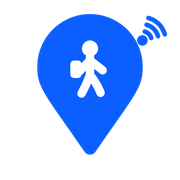
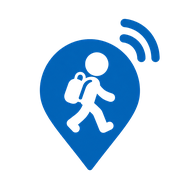
we

diff --git a/public/home.html b/public/home.html
@@ -16,10 +16,12 @@
 
 <style>
   :root {
-    /* Brand color sampled directly from the actual logo artwork
-       (public/assets/logo-mark.png, solid pixel color #098277) — the site
-       previously ran on a generic blue unrelated to the logo's own color. */
-    --teal: #098277; --teal-dark: #076B62; --sky: #E1F3F0; --green: #32C36C;
+    /* Brand color sampled directly from the real logo file (LOGO.png,
+       solid pixel color #0062B7) — matches the exact blue used in the
+       Parent Portal and every favicon/logo asset across the site. This
+       replaced an interim teal that was itself sampled from an earlier,
+       differently-colored export of the logo. */
+    --signal: #0062B7; --signal-deep: #004E92; --sky: #E5EFFA; --green: #32C36C;
     --white: #FFFFFF; --bg-light: #F7F9FC; --ink: #1E293B; --muted: #64748B;
     --line: #E4E9F0; --radius: 16px;
     /* Primary accent — gold, not blue. Blue-on-blue over the scroll-story's
@@ -58,11 +60,11 @@
   .btn-primary:hover { background: var(--accent-hover); }
   .btn-primary:disabled { opacity: 0.6; cursor: default; }
   .btn-ghost { background: transparent; color: var(--ink); border: 1.5px solid var(--line); }
-  .btn-ghost:hover { border-color: var(--teal); color: var(--teal); }
+  .btn-ghost:hover { border-color: var(--signal); color: var(--signal); }
   .btn-sm { padding: 8px 14px; font-size: 13px; }
   .lang-bar { display: flex; gap: 6px; }
   .lang-btn { padding: 5px 13px; border-radius: 20px; border: 1px solid var(--line); background: #fff; color: var(--muted); font-size: 12.5px; font-weight: 700; cursor: pointer; }
-  .lang-btn.active { background: var(--sky); color: var(--teal); border-color: var(--sky); }
+  .lang-btn.active { background: var(--sky); color: var(--signal); border-color: var(--sky); }
 
   /* ---------- STATIC SALES HERO ---------- */
   /* Replaces the old 9-photo scroll-hijack hero: a real salesperson leads
@@ -113,10 +115,10 @@
   .reveal-row { display: flex; justify-content: space-between; padding: 9px 0; border-top: 1px solid var(--line); font-size: 13px; }
   .reveal-row span:first-child { color: var(--muted); }
   .reveal-row span:last-child { font-weight: 600; }
-  .reveal-call { margin-top: 16px; background: var(--teal); color: #fff; text-align: center; padding: 12px; border-radius: 10px; font-size: 14px; font-weight: 700; }
+  .reveal-call { margin-top: 16px; background: var(--signal); color: #fff; text-align: center; padding: 12px; border-radius: 10px; font-size: 14px; font-weight: 700; }
   .reveal-close { display: block; text-align: center; margin-top: 14px; font-size: 12px; color: var(--muted); cursor: pointer; }
 
-  .eyebrow-sm { color: var(--teal); font-size: 13px; font-weight: 700; letter-spacing: 0.08em; text-transform: uppercase; text-align: center; margin-bottom: 12px; }
+  .eyebrow-sm { color: var(--signal); font-size: 13px; font-weight: 700; letter-spacing: 0.08em; text-transform: uppercase; text-align: center; margin-bottom: 12px; }
   .section-title { font-size: clamp(26px, 3.6vw, 38px); text-align: center; color: var(--ink); max-width: 680px; margin: 0 auto 16px; line-height: 1.2; }
   .section-sub { text-align: center; color: var(--muted); font-size: 16px; max-width: 560px; margin: 0 auto 56px; font-weight: 400; }
   .bg-light { background: var(--bg-light); }
@@ -154,7 +156,7 @@
   .gps-result .small { font-size: 12.5px; color: var(--muted); margin-top: 2px; }
   .gps-timer { font-family: 'Inter', monospace; font-size: 15px; font-weight: 700; color: var(--muted); margin-bottom: 14px; min-height: 20px; }
   .gps-footer-note { margin-top: 20px; font-size: 13.5px; color: var(--muted); max-width: 460px; margin-left: auto; margin-right: auto; }
-  .gps-real-photo { max-width: 280px; margin: 32px auto 0; border-radius: 18px; overflow: hidden; box-shadow: 0 24px 50px -20px rgba(9,130,119,0.3); }
+  .gps-real-photo { max-width: 280px; margin: 32px auto 0; border-radius: 18px; overflow: hidden; box-shadow: 0 24px 50px -20px rgba(0,98,183,0.3); }
   .gps-real-photo img { width: 100%; display: block; }
   .gps-real-caption { margin-top: 10px; font-size: 12.5px; color: var(--muted); }
 
@@ -171,8 +173,8 @@
      photo. Percentages are tuned to that specific image's crop — if the
      photo is ever swapped, these need re-tuning by eye against the new one. */
   .signal-pulse { position: absolute; top: 52%; left: 54%; width: 20px; height: 20px; }
-  .signal-dot { position: absolute; inset: 0; margin: auto; width: 14px; height: 14px; border-radius: 50%; background: var(--teal); border: 3px solid #fff; box-shadow: 0 2px 10px rgba(0,0,0,0.35); z-index: 2; }
-  .signal-ring { position: absolute; inset: -10px; border: 2px solid var(--teal); border-radius: 50%; opacity: 0; animation: signalPulseOut 1.8s ease-out infinite; }
+  .signal-dot { position: absolute; inset: 0; margin: auto; width: 14px; height: 14px; border-radius: 50%; background: var(--signal); border: 3px solid #fff; box-shadow: 0 2px 10px rgba(0,0,0,0.35); z-index: 2; }
+  .signal-ring { position: absolute; inset: -10px; border: 2px solid var(--signal); border-radius: 50%; opacity: 0; animation: signalPulseOut 1.8s ease-out infinite; }
   .signal-ring.delay1 { animation-delay: 0.5s; }
   .signal-ring.delay2 { animation-delay: 1s; }
   @keyframes signalPulseOut { 0% { transform: scale(0.4); opacity: 0.9; } 100% { transform: scale(3.4); opacity: 0; } }
@@ -222,13 +224,13 @@
   /* ---------- STATS ---------- */
   .stats-grid { display: grid; grid-template-columns: repeat(3, 1fr); gap: 24px; margin-bottom: 32px; }
   .stat-box { text-align: center; }
-  .stat-num { font-size: clamp(30px, 4.4vw, 44px); font-weight: 800; color: var(--teal); line-height: 1; }
+  .stat-num { font-size: clamp(30px, 4.4vw, 44px); font-weight: 800; color: var(--signal); line-height: 1; }
   .stat-label { margin-top: 10px; font-size: 13.5px; color: var(--muted); line-height: 1.5; max-width: 220px; margin-left: auto; margin-right: auto; }
   .stats-footer-note { text-align: center; font-size: 15px; color: var(--ink); font-weight: 600; max-width: 560px; margin: 0 auto; line-height: 1.6; }
 
   .grid-3 { display: grid; grid-template-columns: repeat(3, 1fr); gap: 24px; }
   .icon-card { background: #fff; border: 1px solid var(--line); border-radius: var(--radius); padding: 28px 24px; }
-  .icon-badge { width: 52px; height: 52px; border-radius: 14px; background: var(--sky); display: flex; align-items: center; justify-content: center; margin-bottom: 16px; color: var(--teal); flex-shrink: 0; }
+  .icon-badge { width: 52px; height: 52px; border-radius: 14px; background: var(--sky); display: flex; align-items: center; justify-content: center; margin-bottom: 16px; color: var(--signal); flex-shrink: 0; }
   .icon-badge svg, .icon-badge img { width: 30px; height: 30px; }
   .panel-icon svg, .panel-icon img { width: 26px; height: 26px; }
   .contact-method .icon-badge svg, .contact-method .icon-badge img { width: 20px; height: 20px; }
@@ -238,16 +240,16 @@
   .timeline { display: grid; grid-template-columns: repeat(4, 1fr); gap: 24px; position: relative; }
   .timeline::before { content: ''; position: absolute; top: 21px; left: 12.5%; right: 12.5%; height: 2px; background: var(--line); }
   .timeline-step { text-align: center; position: relative; cursor: pointer; border-radius: 12px; padding: 10px; transition: transform 0.2s ease, background 0.2s ease; }
-  .timeline-step:hover { transform: translateY(-3px); background: rgba(9,130,119,0.06); }
-  .timeline-step:focus-visible { outline: 2px solid var(--teal); outline-offset: 2px; }
+  .timeline-step:hover { transform: translateY(-3px); background: rgba(0,98,183,0.06); }
+  .timeline-step:focus-visible { outline: 2px solid var(--signal); outline-offset: 2px; }
   .how-map-cta { text-align: center; margin-top: 40px; }
-  .timeline-num { width: 44px; height: 44px; border-radius: 50%; background: var(--teal); color: #fff; display: flex; align-items: center; justify-content: center; font-weight: 800; font-size: 15px; margin: 0 auto 16px; position: relative; z-index: 1; }
+  .timeline-num { width: 44px; height: 44px; border-radius: 50%; background: var(--signal); color: #fff; display: flex; align-items: center; justify-content: center; font-weight: 800; font-size: 15px; margin: 0 auto 16px; position: relative; z-index: 1; }
   .timeline-step h3 { font-size: 15.5px; font-weight: 700; margin-bottom: 6px; }
   .timeline-step p { font-size: 13px; color: var(--muted); font-weight: 400; line-height: 1.5; }
 
   .tabs-nav { display: flex; justify-content: center; gap: 8px; flex-wrap: wrap; margin-bottom: 40px; }
   .tab-btn { padding: 10px 18px; border-radius: 10px; border: 1px solid var(--line); background: #fff; font-size: 14px; font-weight: 600; color: var(--muted); cursor: pointer; }
-  .tab-btn.active { background: var(--teal); color: #fff; border-color: var(--teal); }
+  .tab-btn.active { background: var(--signal); color: #fff; border-color: var(--signal); }
   .tab-panel { display: none; }
   .tab-panel.active { display: block; }
   .tab-content { background: #fff; border: 1px solid var(--line); border-radius: var(--radius); padding: 36px; max-width: 720px; margin: 0 auto; }
@@ -1478,7 +1480,7 @@
             maxZoom: 19
           }).addTo(gpsMap);
           gpsMarker = L.marker([lat, lng]).addTo(gpsMap);
-          gpsCircle = L.circle([lat, lng], { radius: accuracy, color: '#098277', fillColor: '#098277', fillOpacity: 0.15, weight: 1.5 }).addTo(gpsMap);
+          gpsCircle = L.circle([lat, lng], { radius: accuracy, color: '#0062B7', fillColor: '#0062B7', fillOpacity: 0.15, weight: 1.5 }).addTo(gpsMap);
         } else {
           gpsMap.setView([lat, lng], 15);
           gpsMarker.setLatLng([lat, lng]);

diff --git a/public/parent-portal.html b/public/parent-portal.html
@@ -10,7 +10,7 @@
 <meta name="robots" content="noindex, nofollow">
 <style>
   :root {
-    --signal: #0B5FFF; --signal-deep: #0A3FBF; --paper: #EEF2FB;
+    --signal: #0062B7; --signal-deep: #004E92; --paper: #EEF2FB;
     --ink: #0B1C33; --muted: #4A5A78;
     --card: #FFFFFF; --line: #DCE4F0; --danger: #C1442C; --ok: #16A34A; --out: #B45309; --radius: 14px;
   }
@@ -20,10 +20,11 @@
     background: var(--paper); color: var(--ink); min-height: 100vh;
   }
   .topbar {
-    background: var(--signal); color: white; padding: 16px 20px; font-weight: 700;
+    background: rgba(255,255,255,0.9); color: var(--ink); padding: 16px 20px; font-weight: 800;
     display: flex; align-items: center; gap: 10px; font-size: 16px;
+    border-bottom: 1px solid var(--line);
   }
-  .topbar svg { width: 26px; height: 26px; flex: none; }
+  .topbar img { width: 26px; height: 26px; flex: none; }
   .wrap { max-width: 480px; margin: 0 auto; padding: 24px 18px; }
   .card { background: var(--card); border: 1px solid var(--line); border-radius: var(--radius); padding: 22px; margin-bottom: 16px; }
   h2 { font-size: 16px; margin: 0 0 12px; color: var(--signal); }
@@ -45,7 +46,7 @@
 </head>
 <body>
   <div class="topbar">
-    <svg viewBox="0 0 512 512"><path fill="#fff" d="M240.59,431.93C127.07,267.37 106,250.48 106,190C106,107.16 173.16,40 256,40C338.84,40 406,107.16 406,190C406,250.48 384.93,267.37 271.41,431.93C264.0,442.69 248.03,442.69 240.59,431.93Z"/><rect x="200" y="172" rx="12" ry="12" width="32" height="50" fill="#0B5FFF"/><path fill="none" stroke="#0B5FFF" stroke-width="24" stroke-linecap="round" stroke-linejoin="round" d="M256,163 L256,213 M256,213 Q246,240 232,266 M256,213 Q276,238 286,264 M256,172 Q238,190 224,205 M256,172 Q278,188 292,200"/><circle cx="256" cy="138" r="23" fill="#0B5FFF"/><g fill="none" stroke="#fff" stroke-width="13" stroke-linecap="round"><path d="M 411.7 89.9 A 26 26 0 0 1 430.1 108.3"/><path d="M 416.9 70.6 A 46 46 0 0 1 449.4 103.1"/><path d="M 422.1 51.25 A 66 66 0 0 1 468.75 97.9"/></g><circle cx="405" cy="115" r="15" fill="#fff"/></svg>
+    <img src="/assets/logo-mark.png" alt="" width="26" height="26">
     OneTag Parent Portal
   </div>
   <div class="wrap" id="app">
